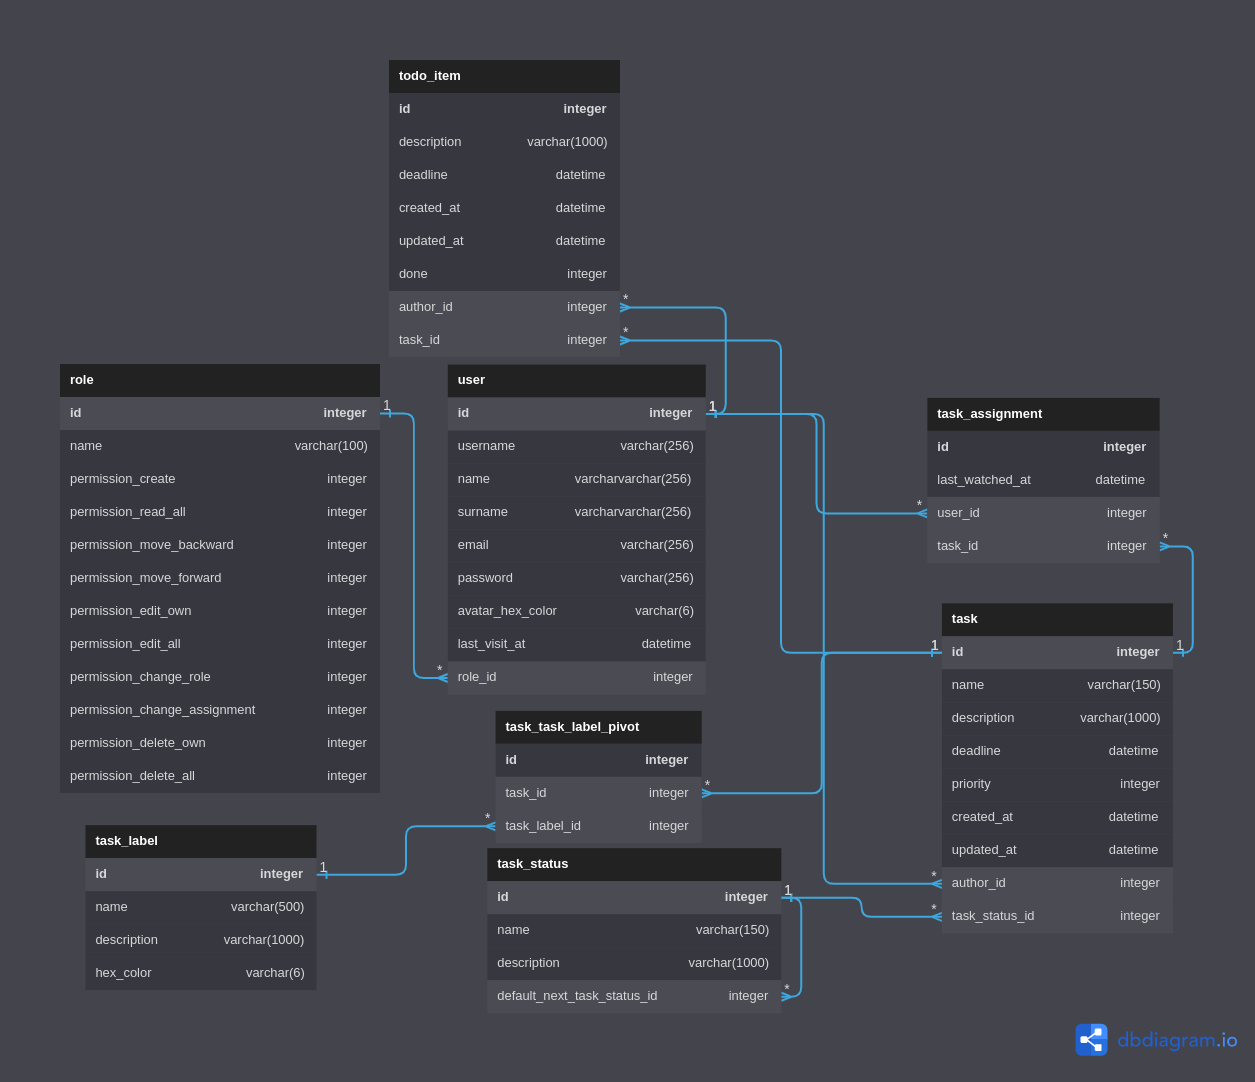
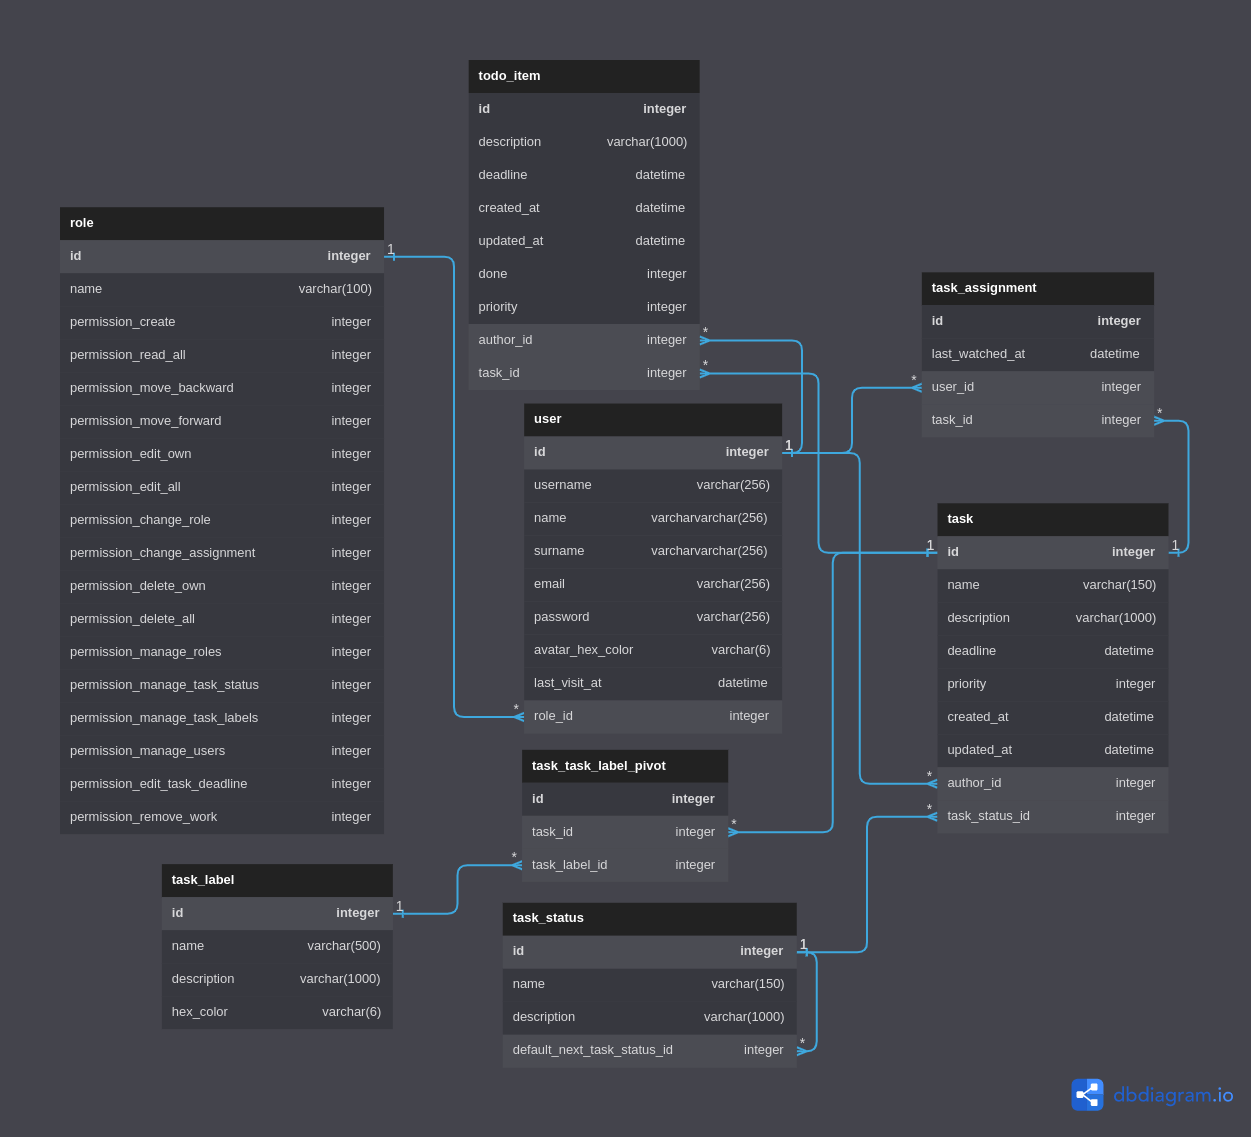
Added priority to todo items

diff --git a/frontend/src/app/widget/modal/new-todo-item/new-todo-item.component.html b/frontend/src/app/widget/modal/new-todo-item/new-todo-item.component.html
@@ -21,28 +21,60 @@
       <div class="modal-body">
         <form [formGroup]="newItemForm">
 
-          <label
-                for="description"
-                class="form-label">
-                {{ "description" | translate }}
-          </label>
-          <textarea
-            class="form-control"
-            placeholder="Description"
-            aria-label="Description"
-            aria-describedby="description-icon"
-            formControlName="description"
-            id="description"
-            rows="6"
-            >
-          </textarea>
+          <div class="row">
+            <div class="col-12">
+              <div class="form-group">
+                <label
+                  for="description"
+                  class="form-label">
+                  {{ "description" | translate }}
+                </label>
+                <textarea
+                  class="form-control"
+                  placeholder="Description"
+                  aria-label="Description"
+                  aria-describedby="description-icon"
+                  formControlName="description"
+                  id="description"
+                  rows="6"
+                  >
+                </textarea>
+              </div>
+            </div>
 
-          <input
-            type="datetime-local"
-            class="form-control flatpickr-time-picker-24h mt-2"
-            placeholder="Deadline"
-            formControlName="deadline"
-          />
+            <div class="col-12">
+              <div class="form-group">
+                <label>
+                  {{ "deadline" | translate }}
+                </label>
+                <input
+                  type="datetime-local"
+                  class="form-control flatpickr-time-picker-24h mt-2"
+                  placeholder="Deadline"
+                  formControlName="deadline"
+                />
+              </div>
+
+            </div>
+
+            <div class="col-12">
+              <div class="form-group">
+                <label>
+                  {{ "priority" | translate }}
+                </label>
+                <input
+                  type="number"
+                  id="priority"
+                  class="form-control"
+                  placeholder="Priority"
+                  formControlName="priority"
+                />
+              </div>
+            </div>
+
+          </div>
+
+
         </form>
 
       </div>

diff --git a/frontend/src/app/widget/task/task-todo-item/task-todo-item.component.html b/frontend/src/app/widget/task/task-todo-item/task-todo-item.component.html
@@ -11,14 +11,20 @@
           [id]="'checkbox-todo-' + item.id"
           [checked]="!!item.done"
           (click)="done()"
+          data-bs-toggle="tooltip"
+          data-bs-placement="top"
+          [title]="'Priority: ' + item.priority"
         />
       </div>
     </div>
 
     <!-- DESCRIPTION -->
     <div class="col-8">
-      <span class="widget-todo-title ml-50"
-            [class.done]="!!item.done">
+      <span class="widget-todo-title ml-50 cursor-arrow"
+            [class.done]="!!item.done"
+            data-bs-toggle="tooltip"
+            data-bs-placement="top"
+            [title]="'Priority: ' + item.priority">
         {{ item.description }}
       </span>
     </div>
@@ -58,7 +64,8 @@
           <app-new-todo-item-modal  [target]="'modify-todo-item-' + item.id"
                                     [baseData]="{
                                       description: item.description,
-                                      deadline: item.deadline
+                                      deadline: item.deadline,
+                                      priority: item.priority
                                     }"
                                     (onSubmit)="modify($event)">
           </app-new-todo-item-modal>

diff --git a/frontend/src/app/widget/modal/new-todo-item/new-todo-item.component.ts b/frontend/src/app/widget/modal/new-todo-item/new-todo-item.component.ts
@@ -17,12 +17,14 @@ export class NewTodoItemComponent {
   newItemForm = new FormGroup({
     description: new FormControl<string | null>(null, [Validators.required]),
     deadline: new FormControl<Date | null>(null),
+    priority: new FormControl<number>(0),
   });
 
   ngAfterContentInit() {
     this.newItemForm.setValue({
       description: this.baseData?.description ?? null,
-      deadline: this.baseData?.deadline ?? null
+      deadline: this.baseData?.deadline ?? null,
+      priority: this.baseData?.priority ?? 0,
     });
 
 
@@ -35,7 +37,8 @@ export class NewTodoItemComponent {
 
       this.onSubmit.emit({
         description: this.newItemForm.controls["description"].value!,
-        deadline: this.newItemForm.controls["deadline"].value
+        deadline: this.newItemForm.controls["deadline"].value,
+        priority: this.newItemForm.controls["priority"].value ?? 0,
       });
 
       // erase old data to prevent autofill

diff --git a/frontend/src/app/widget/task/task-todo-list/task-todo-list.component.ts b/frontend/src/app/widget/task/task-todo-list/task-todo-list.component.ts
@@ -43,8 +43,11 @@ export class TaskTodoListComponent {
     this.todoService.allOf(this.taskId).then((response) => {
       response.subscribe({
         next: (value: TodoItemModel[]) => {
-          if(value)
+          if(value) {
             this.todoItems = value;
+
+            this.todoItems = this.todoItems.sort((a, b) =>  b.priority - a.priority);
+          }
         }
       })
     })
@@ -58,6 +61,7 @@ export class TaskTodoListComponent {
     this.todoService.create({
       description: todo.description,
       deadline: todo.deadline,
+      priority: todo.priority,
       task_id: this.taskId,
       author_id: this.authService.loggedUser.id
 

diff --git a/frontend/src/app/model/entity/todo-item.model.ts b/frontend/src/app/model/entity/todo-item.model.ts
@@ -9,6 +9,7 @@ export interface TodoItemModel extends BaseEntity {
   created_at: Date;
   updated_at: Date;
   done: boolean;
+  priority: number;
 
   author_id: number;
   task_id: number;
@@ -19,4 +20,5 @@ export interface TodoItemModel extends BaseEntity {
 export interface NewTodoItemModel {
   description: string;
   deadline: Date | null;
+  priority: number;
 }

diff --git a/lib/db/db.py b/lib/db/db.py
@@ -359,6 +359,7 @@ class DBManager(TableNamesMixin, BaseTaskStatusIdMixin, BaseRoleIdMixin):
 
             self.todo_item_table_name: Table(self.todo_item_table_name, [
                 Field.id_field(),
+                Field(name="priority", type="INTEGER", default="0"),
                 Field.description_field(nullable=False),
                 Field.nullable_datetime(name="deadline"),
                 Field.created_at_field(use_localtime=self.use_localtime),

diff --git a/lib/db/entity/task.py b/lib/db/entity/task.py
@@ -98,6 +98,7 @@ class TaskAssignmentModel(BaseEntityModel):
 @dataclass
 class TodoItemModel(BaseEntityModel):
     id: int
+    priority: int
     description: str
     created_at: datetime
     updated_at: datetime
